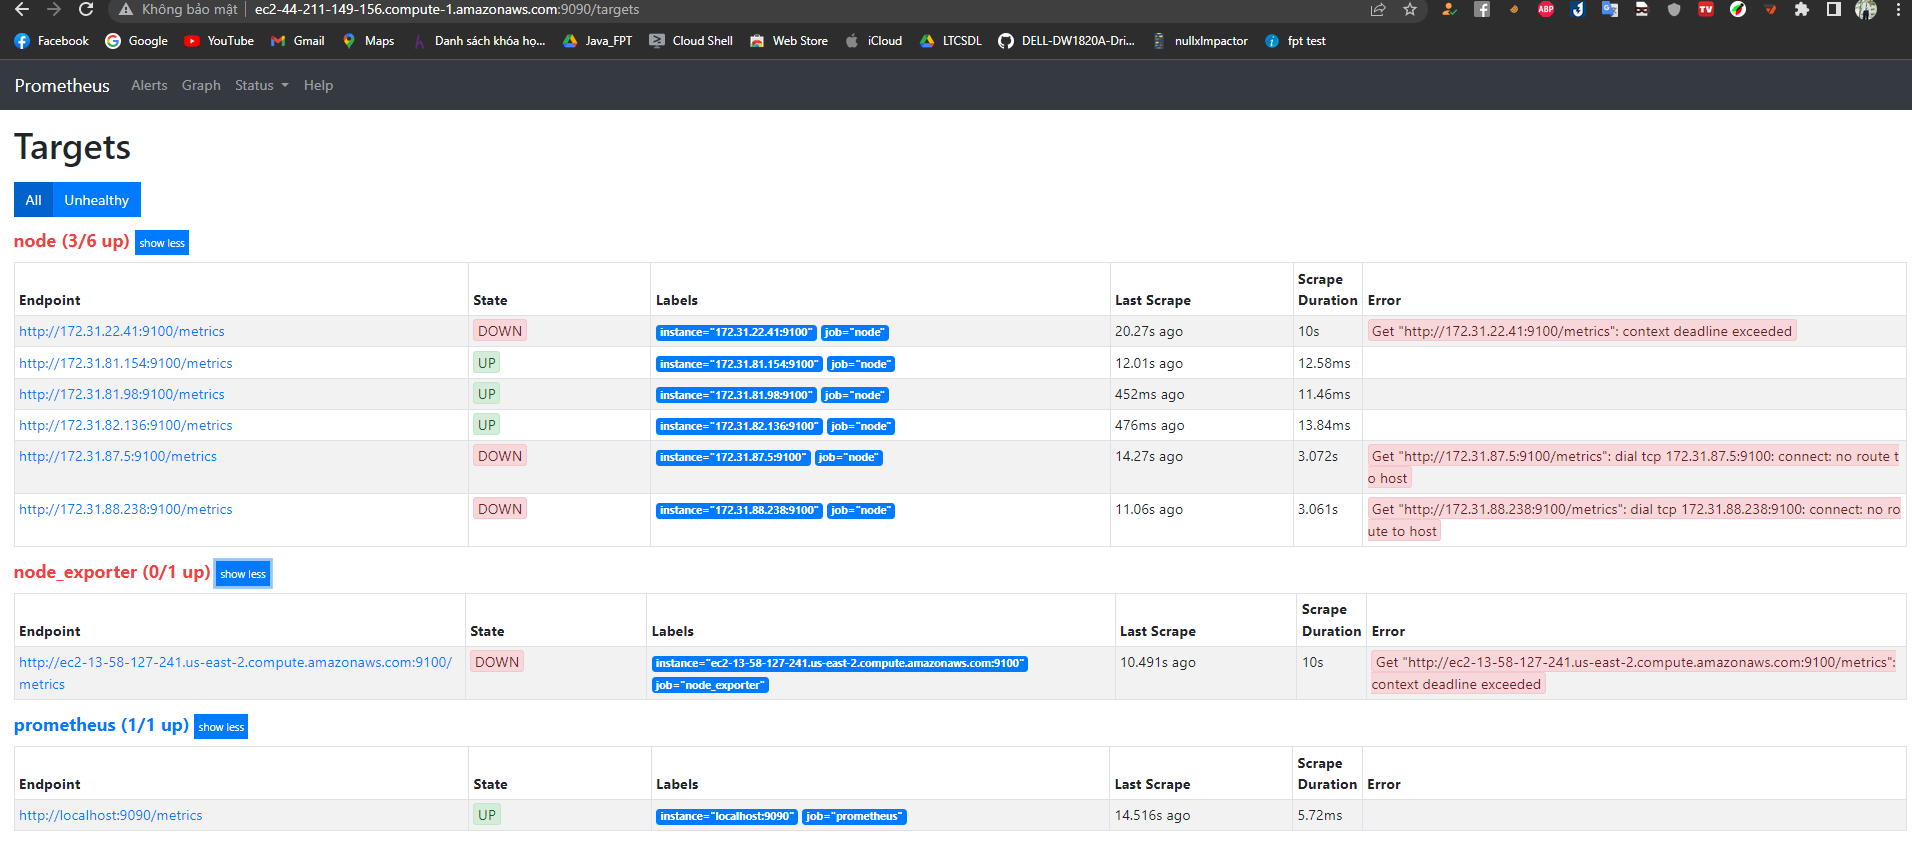
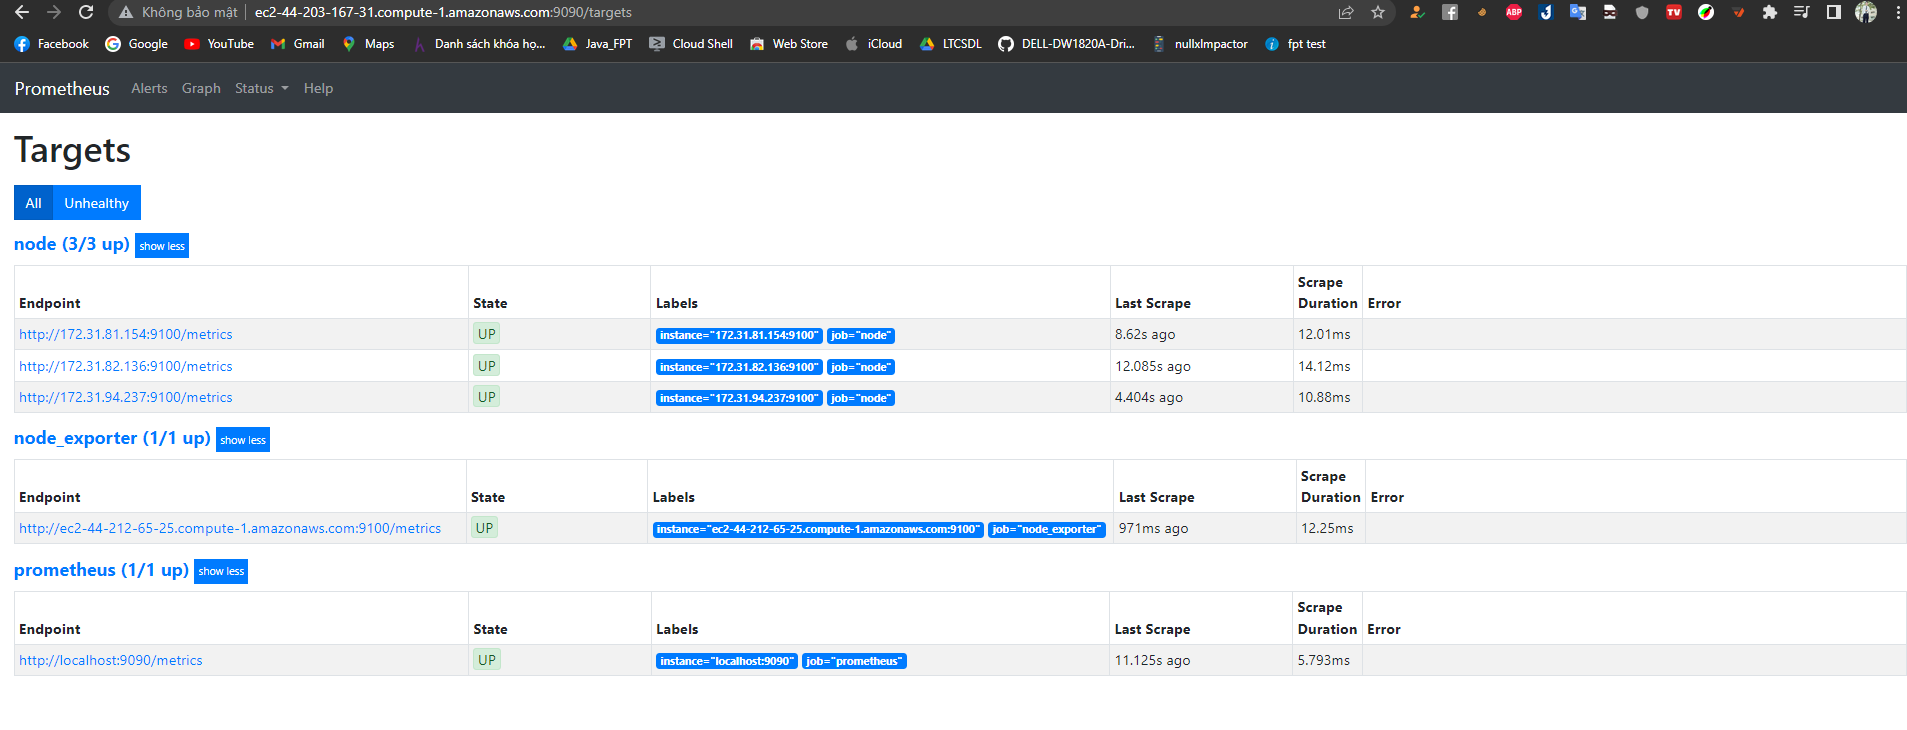
update

diff --git a/screenshots/README.md b/screenshots/README.md
@@ -1,11 +1,11 @@
 URL 01 - https://github.com/ngoctam123/Give-Your-Application-Auto-Deploy-Superpowers-
 
-URL 02 - http://udapeople-9f7244d.s3-website-us-east-1.amazonaws.com/
+URL 02 - http://udapeople-42b6f49.s3-website-us-east-1.amazonaws.com/#/employees
 
-URL 03 - d18qfxqphzsr6t.cloudfront.net
+URL 03 - http://djd5zasfvlit.cloudfront.net/#/employees
 
-URL 04 - http://ec2-54-163-61-6.compute-1.amazonaws.com:3030/api/status
+URL 04 - http://ec2-3-94-187-179.compute-1.amazonaws.com:3030/api/status
 
-URL 05 - http://ec2-34-238-252-54.compute-1.amazonaws.com:9090/graph
+URL 05 - http://ec2-44-203-167-31.compute-1.amazonaws.com:9090/graph
 
 Thank you Mr.Reviewer
